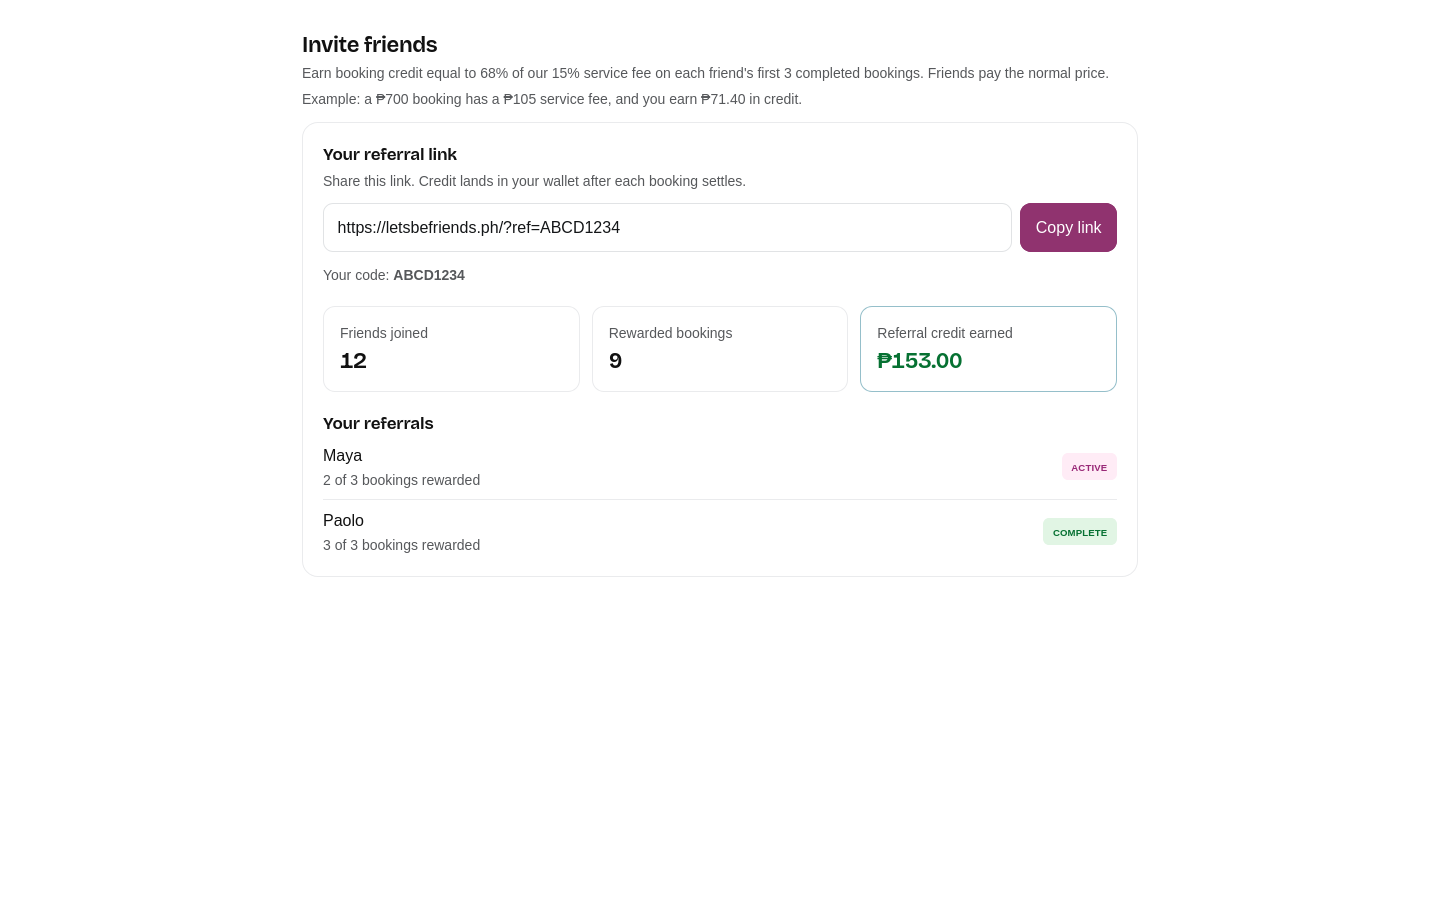
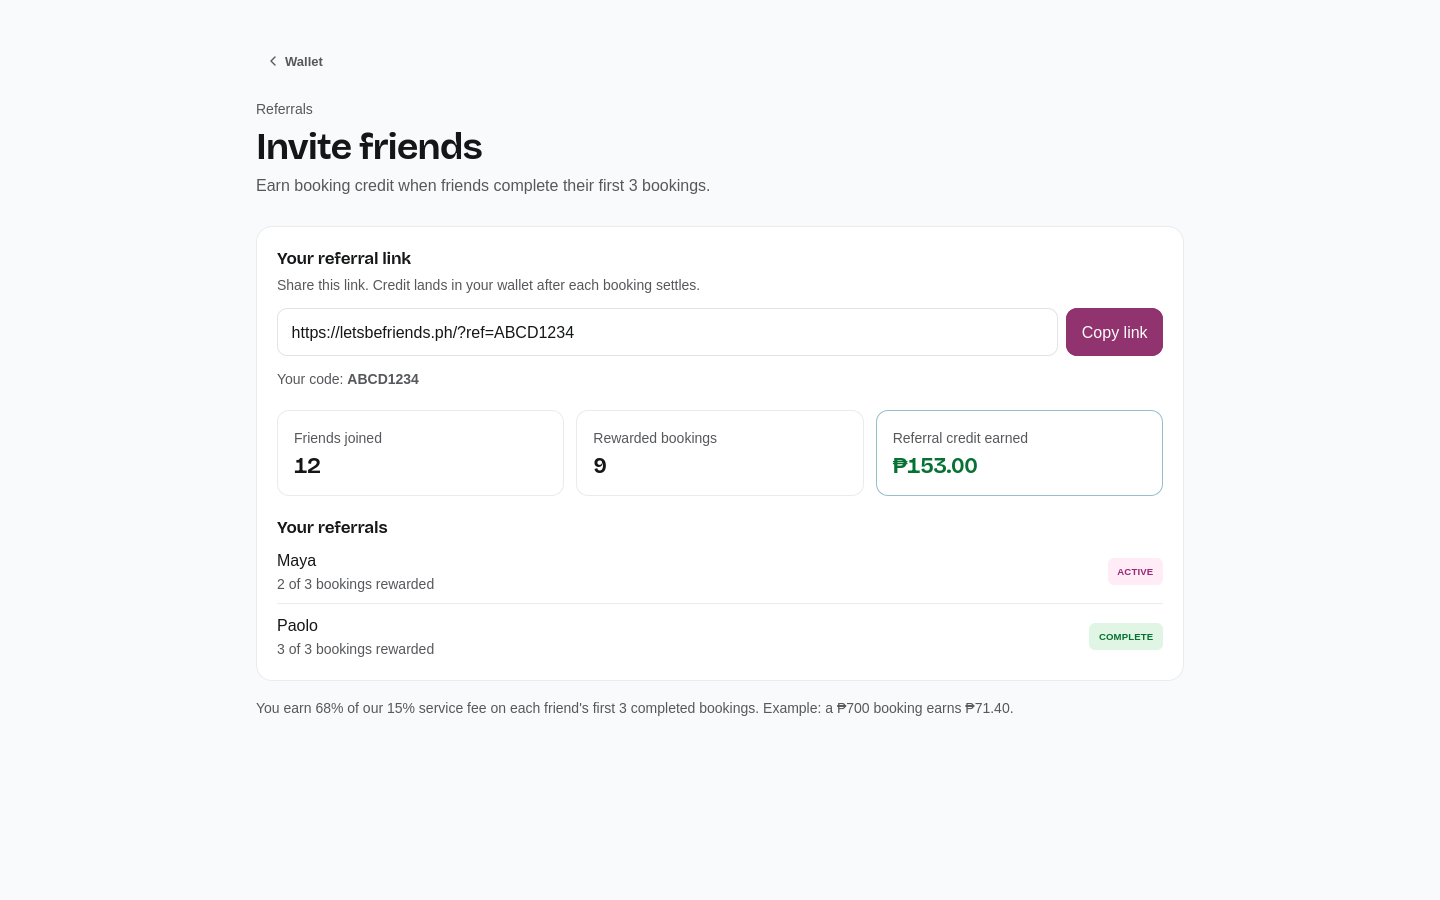
feat(referrals): add dedicated web referrals page

diff --git a/apps/web/src/routeTree.gen.ts b/apps/web/src/routeTree.gen.ts
@@ -24,6 +24,7 @@ import { Route as NotificationsRouteImport } from './routes/notifications'
 import { Route as OnboardingRouteImport } from './routes/onboarding'
 import { Route as PrivacyPolicyRouteImport } from './routes/privacy-policy'
 import { Route as ProfileRouteImport } from './routes/profile'
+import { Route as ReferralsRouteImport } from './routes/referrals'
 import { Route as ReviewRouteImport } from './routes/review'
 import { Route as SafetyRouteImport } from './routes/safety'
 import { Route as SettingsRouteImport } from './routes/settings'
@@ -111,6 +112,11 @@ const ProfileRoute = ProfileRouteImport.update({
   path: '/profile',
   getParentRoute: () => rootRouteImport,
 } as any)
+const ReferralsRoute = ReferralsRouteImport.update({
+  id: '/referrals',
+  path: '/referrals',
+  getParentRoute: () => rootRouteImport,
+} as any)
 const ReviewRoute = ReviewRouteImport.update({
   id: '/review',
   path: '/review',
@@ -183,6 +189,7 @@ export interface FileRoutesByFullPath {
   '/onboarding': typeof OnboardingRoute
   '/privacy-policy': typeof PrivacyPolicyRoute
   '/profile': typeof ProfileRoute
+  '/referrals': typeof ReferralsRoute
   '/review': typeof ReviewRoute
   '/safety': typeof SafetyRoute
   '/settings': typeof SettingsRoute
@@ -210,6 +217,7 @@ export interface FileRoutesByTo {
   '/onboarding': typeof OnboardingRoute
   '/privacy-policy': typeof PrivacyPolicyRoute
   '/profile': typeof ProfileRoute
+  '/referrals': typeof ReferralsRoute
   '/review': typeof ReviewRoute
   '/safety': typeof SafetyRoute
   '/settings': typeof SettingsRoute
@@ -239,6 +247,7 @@ export interface FileRoutesById {
   '/onboarding': typeof OnboardingRoute
   '/privacy-policy': typeof PrivacyPolicyRoute
   '/profile': typeof ProfileRoute
+  '/referrals': typeof ReferralsRoute
   '/review': typeof ReviewRoute
   '/safety': typeof SafetyRoute
   '/settings': typeof SettingsRoute
@@ -269,6 +278,7 @@ export interface FileRouteTypes {
     | '/onboarding'
     | '/privacy-policy'
     | '/profile'
+    | '/referrals'
     | '/review'
     | '/safety'
     | '/settings'
@@ -296,6 +306,7 @@ export interface FileRouteTypes {
     | '/onboarding'
     | '/privacy-policy'
     | '/profile'
+    | '/referrals'
     | '/review'
     | '/safety'
     | '/settings'
@@ -324,6 +335,7 @@ export interface FileRouteTypes {
     | '/onboarding'
     | '/privacy-policy'
     | '/profile'
+    | '/referrals'
     | '/review'
     | '/safety'
     | '/settings'
@@ -353,6 +365,7 @@ export interface RootRouteChildren {
   OnboardingRoute: typeof OnboardingRoute
   PrivacyPolicyRoute: typeof PrivacyPolicyRoute
   ProfileRoute: typeof ProfileRoute
+  ReferralsRoute: typeof ReferralsRoute
   ReviewRoute: typeof ReviewRoute
   SafetyRoute: typeof SafetyRoute
   SettingsRoute: typeof SettingsRoute
@@ -471,6 +484,13 @@ declare module '@tanstack/react-router' {
       preLoaderRoute: typeof ProfileRouteImport
       parentRoute: typeof rootRouteImport
     }
+    '/referrals': {
+      id: '/referrals'
+      path: '/referrals'
+      fullPath: '/referrals'
+      preLoaderRoute: typeof ReferralsRouteImport
+      parentRoute: typeof rootRouteImport
+    }
     '/review': {
       id: '/review'
       path: '/review'
@@ -580,6 +600,7 @@ const rootRouteChildren: RootRouteChildren = {
   OnboardingRoute: OnboardingRoute,
   PrivacyPolicyRoute: PrivacyPolicyRoute,
   ProfileRoute: ProfileRoute,
+  ReferralsRoute: ReferralsRoute,
   ReviewRoute: ReviewRoute,
   SafetyRoute: SafetyRoute,
   SettingsRoute: SettingsRoute,

diff --git a/apps/web/src/features/referral/ReferralPanelView.tsx b/apps/web/src/features/referral/ReferralPanelView.tsx
@@ -37,6 +37,7 @@ export function ReferralPanelView({
   error,
   notice,
   origin,
+  showHeader = true,
   onCreateCode,
   onCopyLink,
   onLoadMore,
@@ -48,6 +49,7 @@ export function ReferralPanelView({
   error: string
   notice: string
   origin: string
+  showHeader?: boolean
   onCreateCode: () => void
   onCopyLink: () => void
   onLoadMore: () => void
@@ -55,19 +57,26 @@ export function ReferralPanelView({
   const shareUrl = referral.code ? referralShareUrl(origin, referral.code) : ''
 
   return (
-    <section id="referrals" className="mb-10" aria-labelledby="referrals-title">
-      <header className="flex items-baseline justify-between gap-3 mb-3">
-        <div>
-          <h2 id="referrals-title" className="text-h2">Invite friends</h2>
-          <p className="text-meta mt-1">Earn booking credit equal to 68% of our 15% service fee on each friend's first 3 completed bookings. Friends pay the normal price.</p>
-          <p className="text-meta mt-1">Example: a ₱700 booking has a ₱105 service fee, and you earn ₱71.40 in credit.</p>
-        </div>
-      </header>
+    <section
+      id="referrals"
+      className={showHeader ? 'mb-10' : undefined}
+      aria-labelledby={showHeader ? 'referrals-title' : undefined}
+      aria-label={showHeader ? undefined : 'Referral details'}
+    >
+      {showHeader ? (
+        <header className="flex items-baseline justify-between gap-3 mb-3">
+          <div>
+            <h2 id="referrals-title" className="text-h2">Invite friends</h2>
+            <p className="text-meta mt-1">Earn booking credit equal to 68% of our 15% service fee on each friend's first 3 completed bookings. Friends pay the normal price.</p>
+            <p className="text-meta mt-1">Example: a ₱700 booking has a ₱105 service fee, and you earn ₱71.40 in credit.</p>
+          </div>
+        </header>
+      ) : null}
 
       {error && <div className="notice notice-danger mb-3" role="alert"><span className="notice-icon">!</span><span>{error}</span></div>}
       {notice && <div className="notice mb-3" role="status"><span className="notice-icon">i</span><span>{notice}</span></div>}
 
-      <div className="panel p-5 space-y-5">
+      <div className="panel p-4 space-y-4 sm:p-5 sm:space-y-5">
         {!referral.code ? (
           <div className="space-y-3">
             <div>

diff --git a/apps/web/src/features/referral/ReferralPanel.tsx b/apps/web/src/features/referral/ReferralPanel.tsx
@@ -5,7 +5,7 @@ import { api } from '../../../convex/_generated/api'
 import { describeConvexError } from '../../lib/convexErrors'
 import { ReferralPanelView } from './ReferralPanelView'
 
-export function ReferralPanel() {
+export function ReferralPanel({ showHeader = true }: { showHeader?: boolean } = {}) {
   const referral = useQuery(api.referrals.myReferral)
   const page = usePaginatedQuery(api.referrals.myReferralPage, {}, { initialNumItems: 10 })
   const ensureReferralCode = useMutation(api.referrals.ensureReferralCode)
@@ -15,13 +15,20 @@ export function ReferralPanel() {
 
   if (referral === undefined) {
     return (
-      <section id="referrals" className="mb-10" aria-labelledby="referrals-title">
-        <header className="flex items-baseline justify-between gap-3 mb-3">
-          <div>
-            <h2 id="referrals-title" className="text-h2">Invite friends</h2>
-            <p className="text-meta mt-1">Earn 68% of our service fee on each friend's first 3 completed bookings.</p>
-          </div>
-        </header>
+      <section
+        id="referrals"
+        className={showHeader ? 'mb-10' : undefined}
+        aria-labelledby={showHeader ? 'referrals-title' : undefined}
+        aria-label={showHeader ? undefined : 'Referral details'}
+      >
+        {showHeader ? (
+          <header className="flex items-baseline justify-between gap-3 mb-3">
+            <div>
+              <h2 id="referrals-title" className="text-h2">Invite friends</h2>
+              <p className="text-meta mt-1">Earn 68% of our service fee on each friend's first 3 completed bookings.</p>
+            </div>
+          </header>
+        ) : null}
         <div className="empty-state">Loading your referral link...</div>
       </section>
     )
@@ -66,6 +73,7 @@ export function ReferralPanel() {
       error={error}
       notice={notice}
       origin={origin}
+      showHeader={showHeader}
       onCreateCode={() => void createCode()}
       onCopyLink={() => void copyLink()}
       onLoadMore={() => page.loadMore(10)}

diff --git a/apps/web/src/routes/referrals.tsx b/apps/web/src/routes/referrals.tsx
@@ -1,0 +1,44 @@
+import { SignInButton, useAuth } from '@clerk/react'
+import { createFileRoute, Link } from '@tanstack/react-router'
+import { ChevronLeft } from 'lucide-react'
+
+import { ReferralPanel } from '../features/referral/ReferralPanel'
+
+export const Route = createFileRoute('/referrals')({ component: ReferralsPage })
+
+function ReferralsPage() {
+  const { isSignedIn } = useAuth()
+
+  if (!isSignedIn) {
+    return (
+      <main className="settings-page referrals-page">
+        <header className="settings-page-header">
+          <p className="text-meta">Referrals</p>
+          <h1 className="text-h1">Invite friends</h1>
+          <p className="text-body muted">Sign in to see your referral link and activity.</p>
+        </header>
+        <SignInButton mode="modal">
+          <button className="btn btn-self">Sign in</button>
+        </SignInButton>
+      </main>
+    )
+  }
+
+  return (
+    <main className="settings-page referrals-page">
+      <Link to="/wallet" className="btn btn-ghost btn-sm referrals-back-link">
+        <ChevronLeft size={16} aria-hidden="true" />
+        <span>Wallet</span>
+      </Link>
+      <header className="settings-page-header">
+        <p className="text-meta">Referrals</p>
+        <h1 className="text-h1">Invite friends</h1>
+        <p className="text-body muted">Earn booking credit when friends complete their first 3 bookings.</p>
+      </header>
+      <ReferralPanel showHeader={false} />
+      <p className="text-meta mt-4">
+        You earn 68% of our 15% service fee on each friend's first 3 completed bookings. Example: a ₱700 booking earns ₱71.40.
+      </p>
+    </main>
+  )
+}

diff --git a/apps/web/src/routes/wallet.tsx b/apps/web/src/routes/wallet.tsx
@@ -7,7 +7,7 @@ import { formatPhp } from '@lets-be-friends/shared'
 import { api } from '../../convex/_generated/api'
 import { MemberWalletPanel } from '../features/wallet/MemberWalletPanel'
 import { CompanionWithdrawalPanel } from '../features/wallet/CompanionWithdrawalPanel'
-import { ReferralPanel } from '../features/referral/ReferralPanel'
+import { ReferralWalletCard } from '../features/referral/ReferralWalletCard'
 
 export const Route = createFileRoute('/wallet')({ component: WalletPage })
 
@@ -49,7 +49,7 @@ function WalletPage() {
         }}
       />
 
-      <ReferralPanel />
+      <ReferralWalletCard />
 
       <CompanionWithdrawalPanel />
     </main>

diff --git a/apps/web/src/styles.css b/apps/web/src/styles.css
@@ -1886,6 +1886,14 @@
   margin-bottom: 1.75rem;
 }
 
+.referrals-back-link {
+  display: inline-flex;
+  align-items: center;
+  gap: 0.25rem;
+  margin-bottom: 1rem;
+  padding-inline: 0.5rem;
+}
+
 .settings-page-header .text-body {
   max-width: 46rem;
 }
@@ -2137,6 +2145,22 @@
   .settings-page-header {
     margin-bottom: 1rem;
     padding-inline: 0.25rem;
+  }
+
+  .referrals-page {
+    padding-inline: 0.5rem;
+  }
+
+  .referrals-page .settings-page-header {
+    padding-inline: 0;
+  }
+
+  .referrals-page .panel {
+    padding: 0.875rem;
+  }
+
+  .referrals-page .referrals-back-link {
+    margin-bottom: 0.75rem;
   }
 
   .settings-section-heading,

diff --git a/apps/web/src/features/referral/ReferralWalletCard.tsx b/apps/web/src/features/referral/ReferralWalletCard.tsx
@@ -1,0 +1,11 @@
+import { Link } from '@tanstack/react-router'
+
+export function ReferralWalletCard() {
+  return (
+    <section className="panel p-5 mb-10">
+      <p className="text-h3">Invite friends</p>
+      <p className="text-meta mt-1">Earn booking credit when friends complete their first 3 bookings.</p>
+      <Link to="/referrals" className="btn btn-social btn-sm mt-4">View referrals</Link>
+    </section>
+  )
+}
